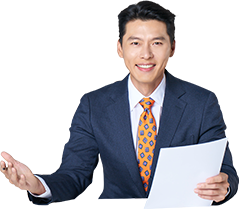
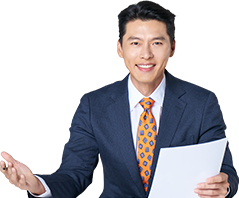
결과페이지

diff --git a/etc/css/layer.css b/etc/css/layer.css
@@ -13,7 +13,8 @@
 #visitsMainConsultComp {position:relative;width:710px;height:790px;padding:226px 42px 42px;background:#467ed8 url('/etc/img/visits_main_consult_comp_bg.jpg') 0 0 no-repeat;background-size:cover}
 #visitsMainConsultComp .tit_layer {position:absolute;top:78px;left:50px;font-size:30px;color:#fff;letter-spacing:-0.03em}
 #visitsMainConsultComp .tit_layer::after {content:'';position:absolute;top:-32px;left:0;width:340px;height:130px;background:url('/etc/img/visits_main_consult_comp_tit_bg.png') 0 0 no-repeat}
-#visitsMainConsultComp .list_profile {margin-bottom:30px;padding:23px 30px;border:1px solid #d1d1d1;border-radius:4px;background-color:#fff;}
+#visitsMainConsultComp .list_profile {position:relative;margin-bottom:30px;padding:23px 30px;border:1px solid #d1d1d1;border-radius:4px;background-color:#fff;}
+#visitsMainConsultComp .list_profile::before {content:'';position:absolute;top:-199px;right:20px;width:239px;height:198px;background:url('/etc/img/visits_main_consult_comp_model.png') 0 0 no-repeat}
 #visitsMainConsultComp .list_profile::after {content:'';display:block;visibility:hidden;height:0;font-size:0;clear:both}
 #visitsMainConsultComp .list_profile li {float:left;width:50%;margin-bottom:15px}
 #visitsMainConsultComp .list_profile li:nth-child(n+7) {margin-bottom:0}
